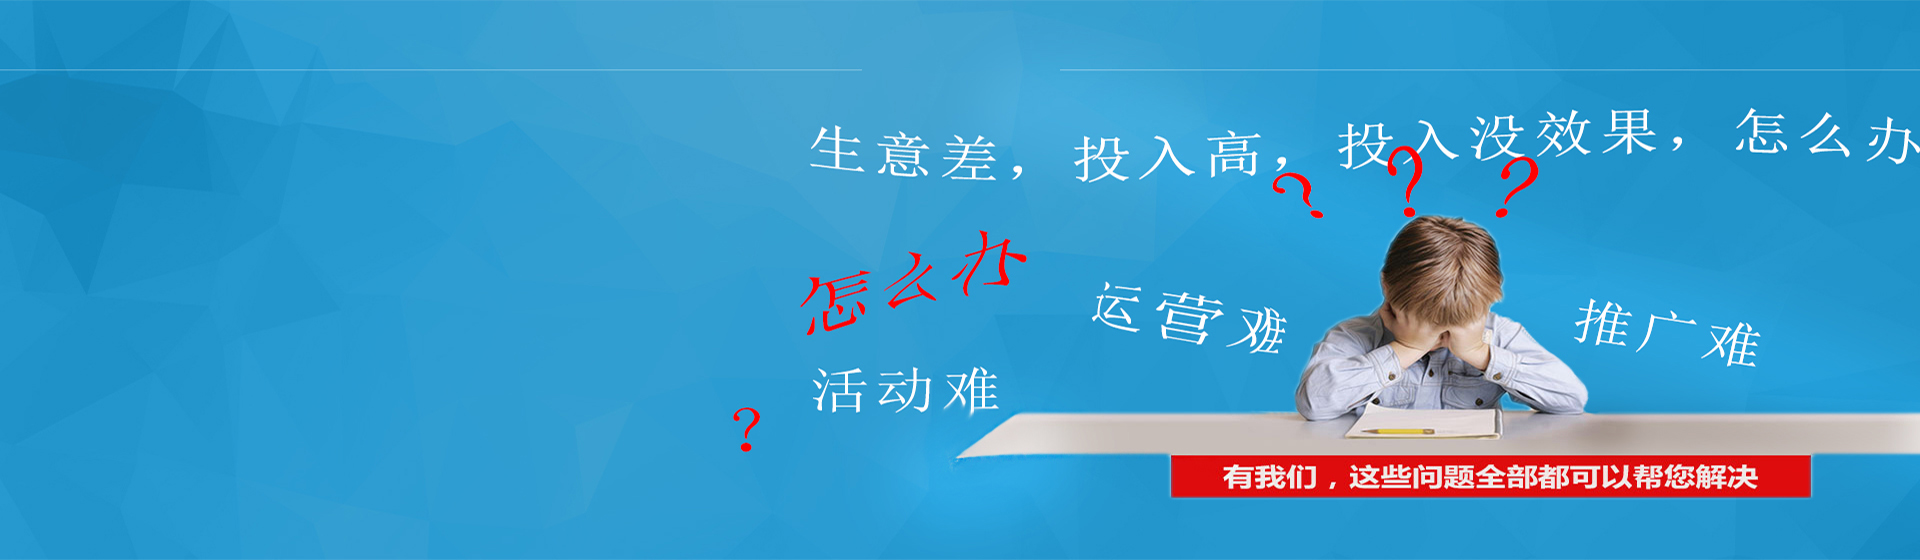
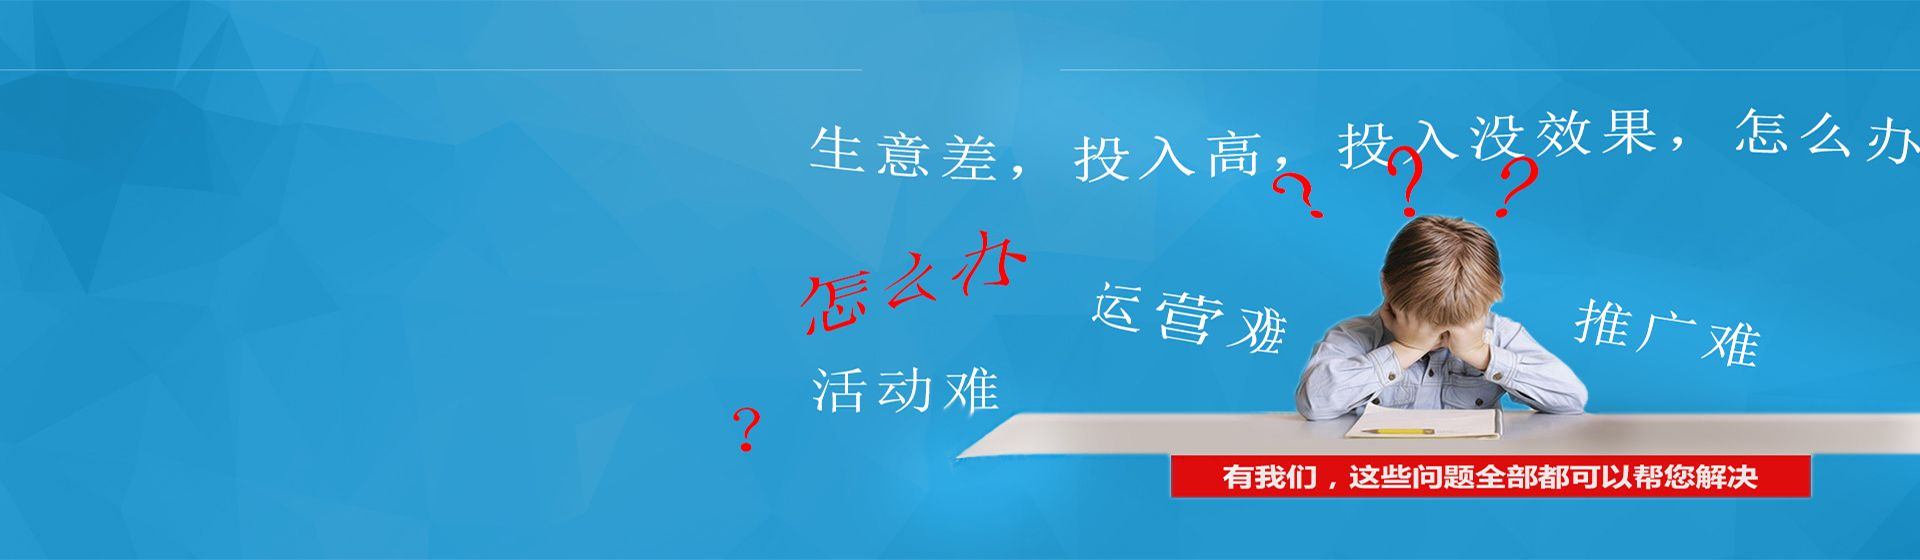
压缩电商运营的图片

diff --git a/src/index.html b/src/index.html
@@ -71,7 +71,7 @@
                 <div class="item text-left">
                     <div class="course">
                         <a href="index-farm.html">
-                            <img class="img-responsive" src="images/slider/10.jpg" alt="">
+                            <img class="img-responsive" src="images/slider/123.webp" alt="">
                         </a>
                     </div>
                 </div>
